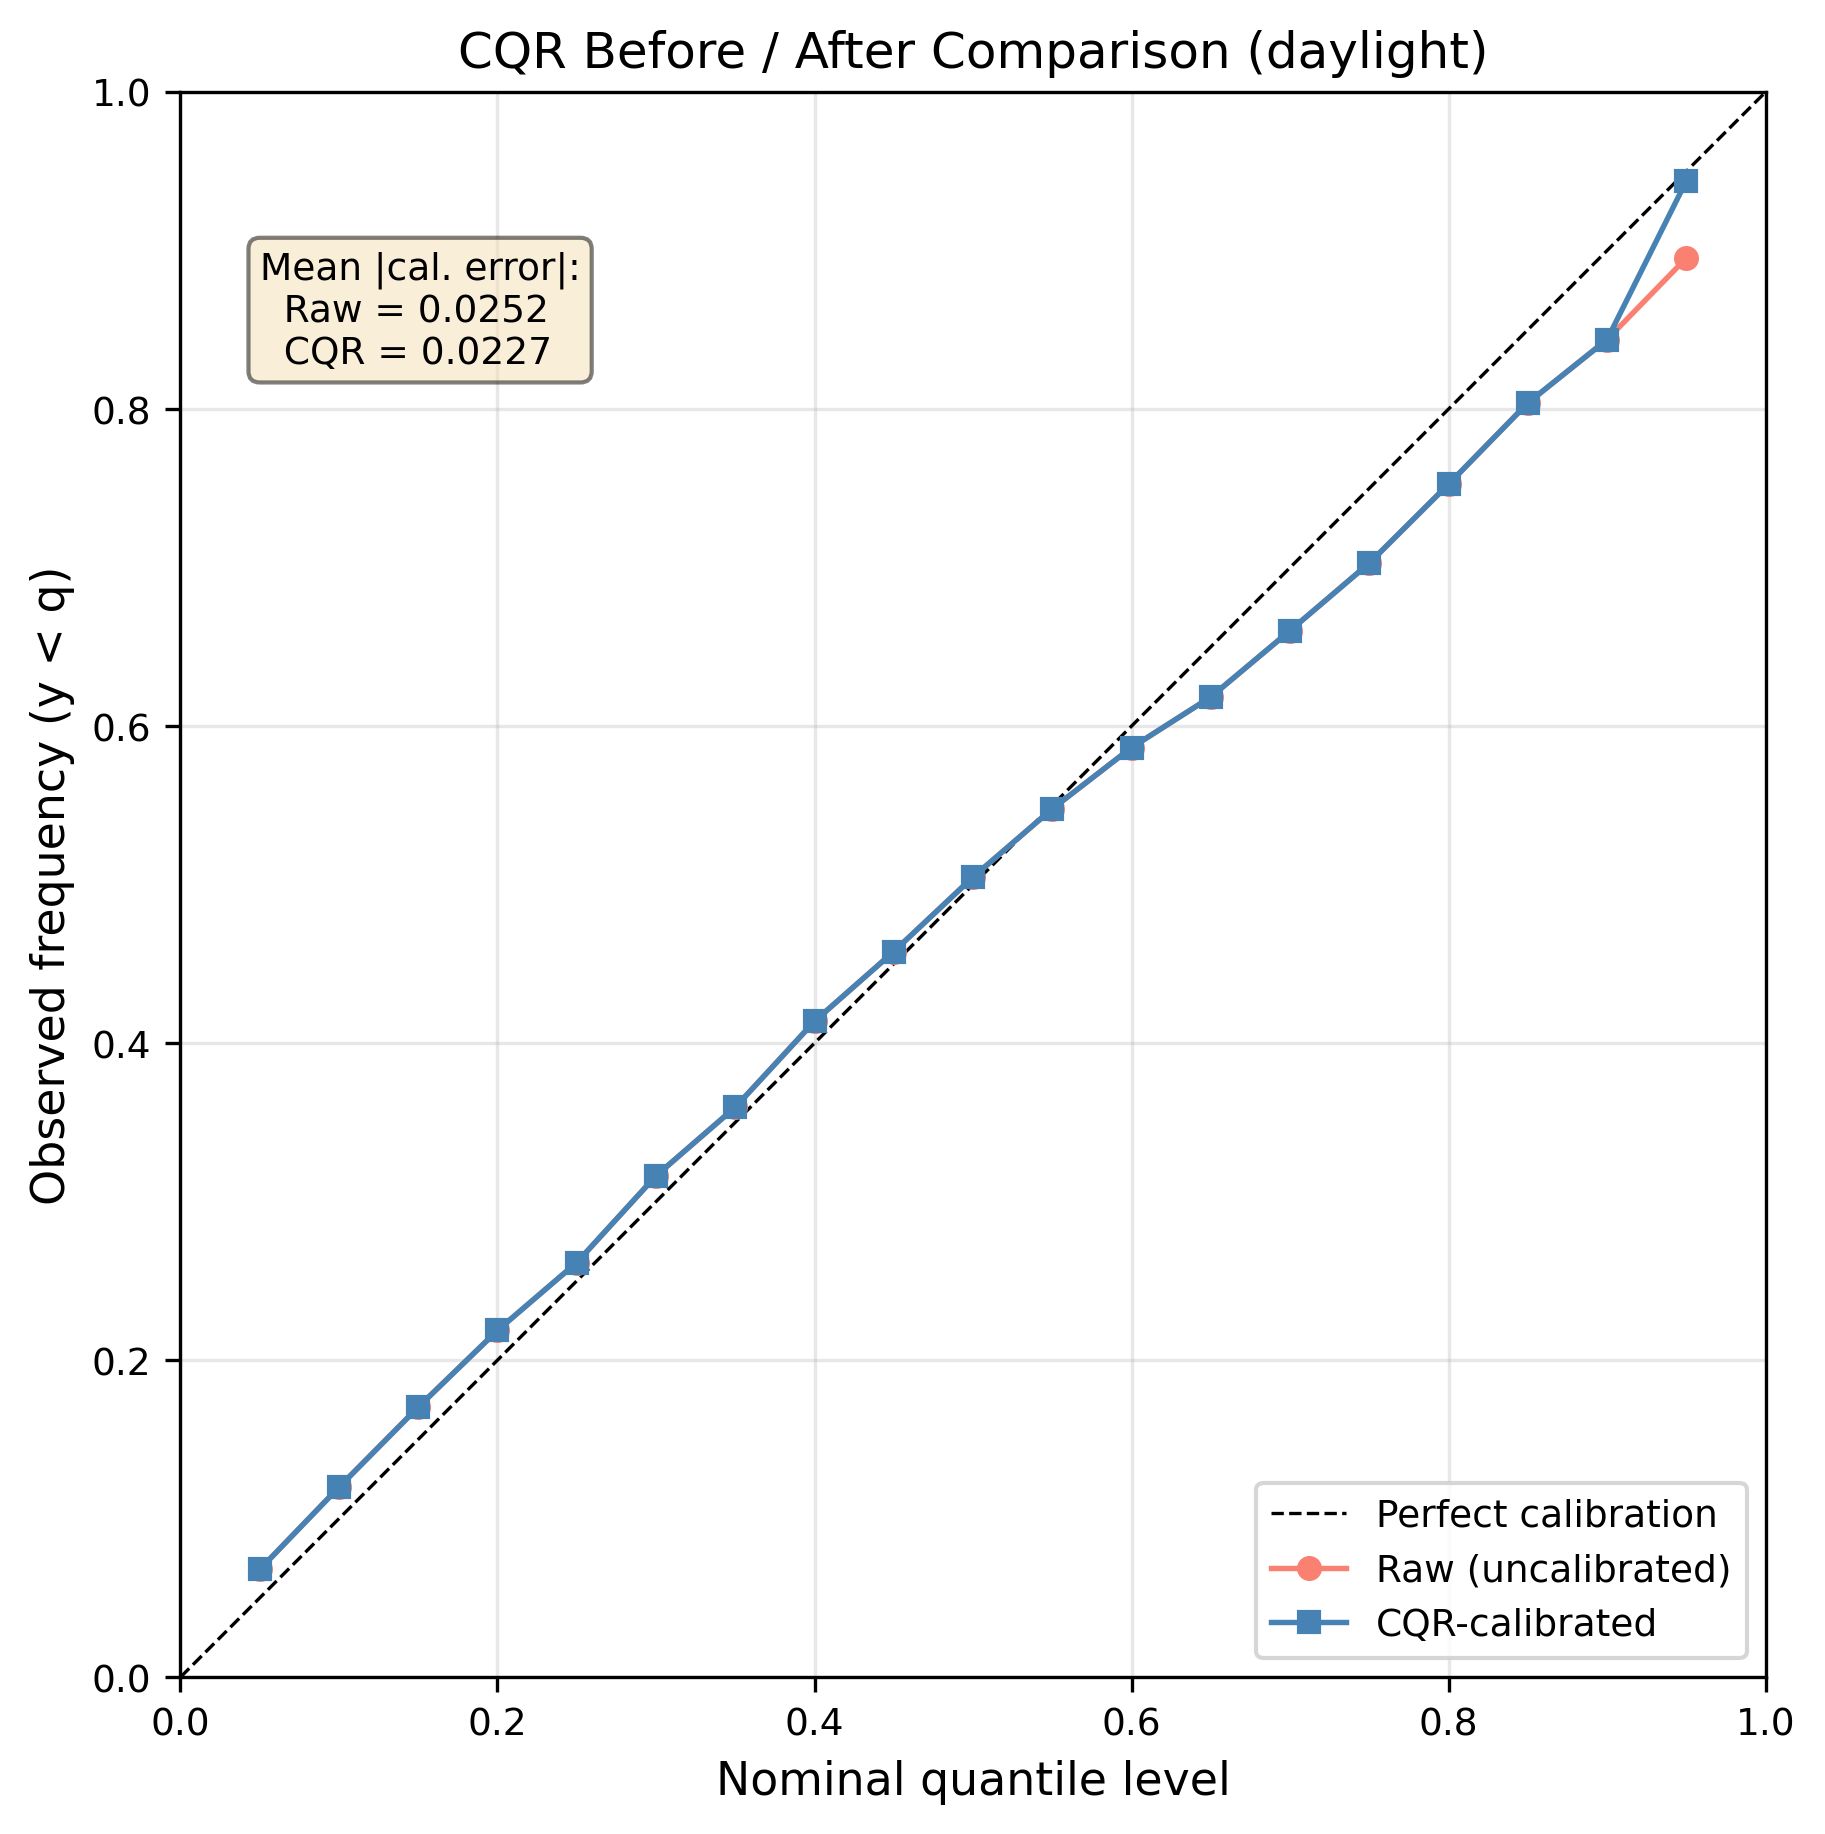
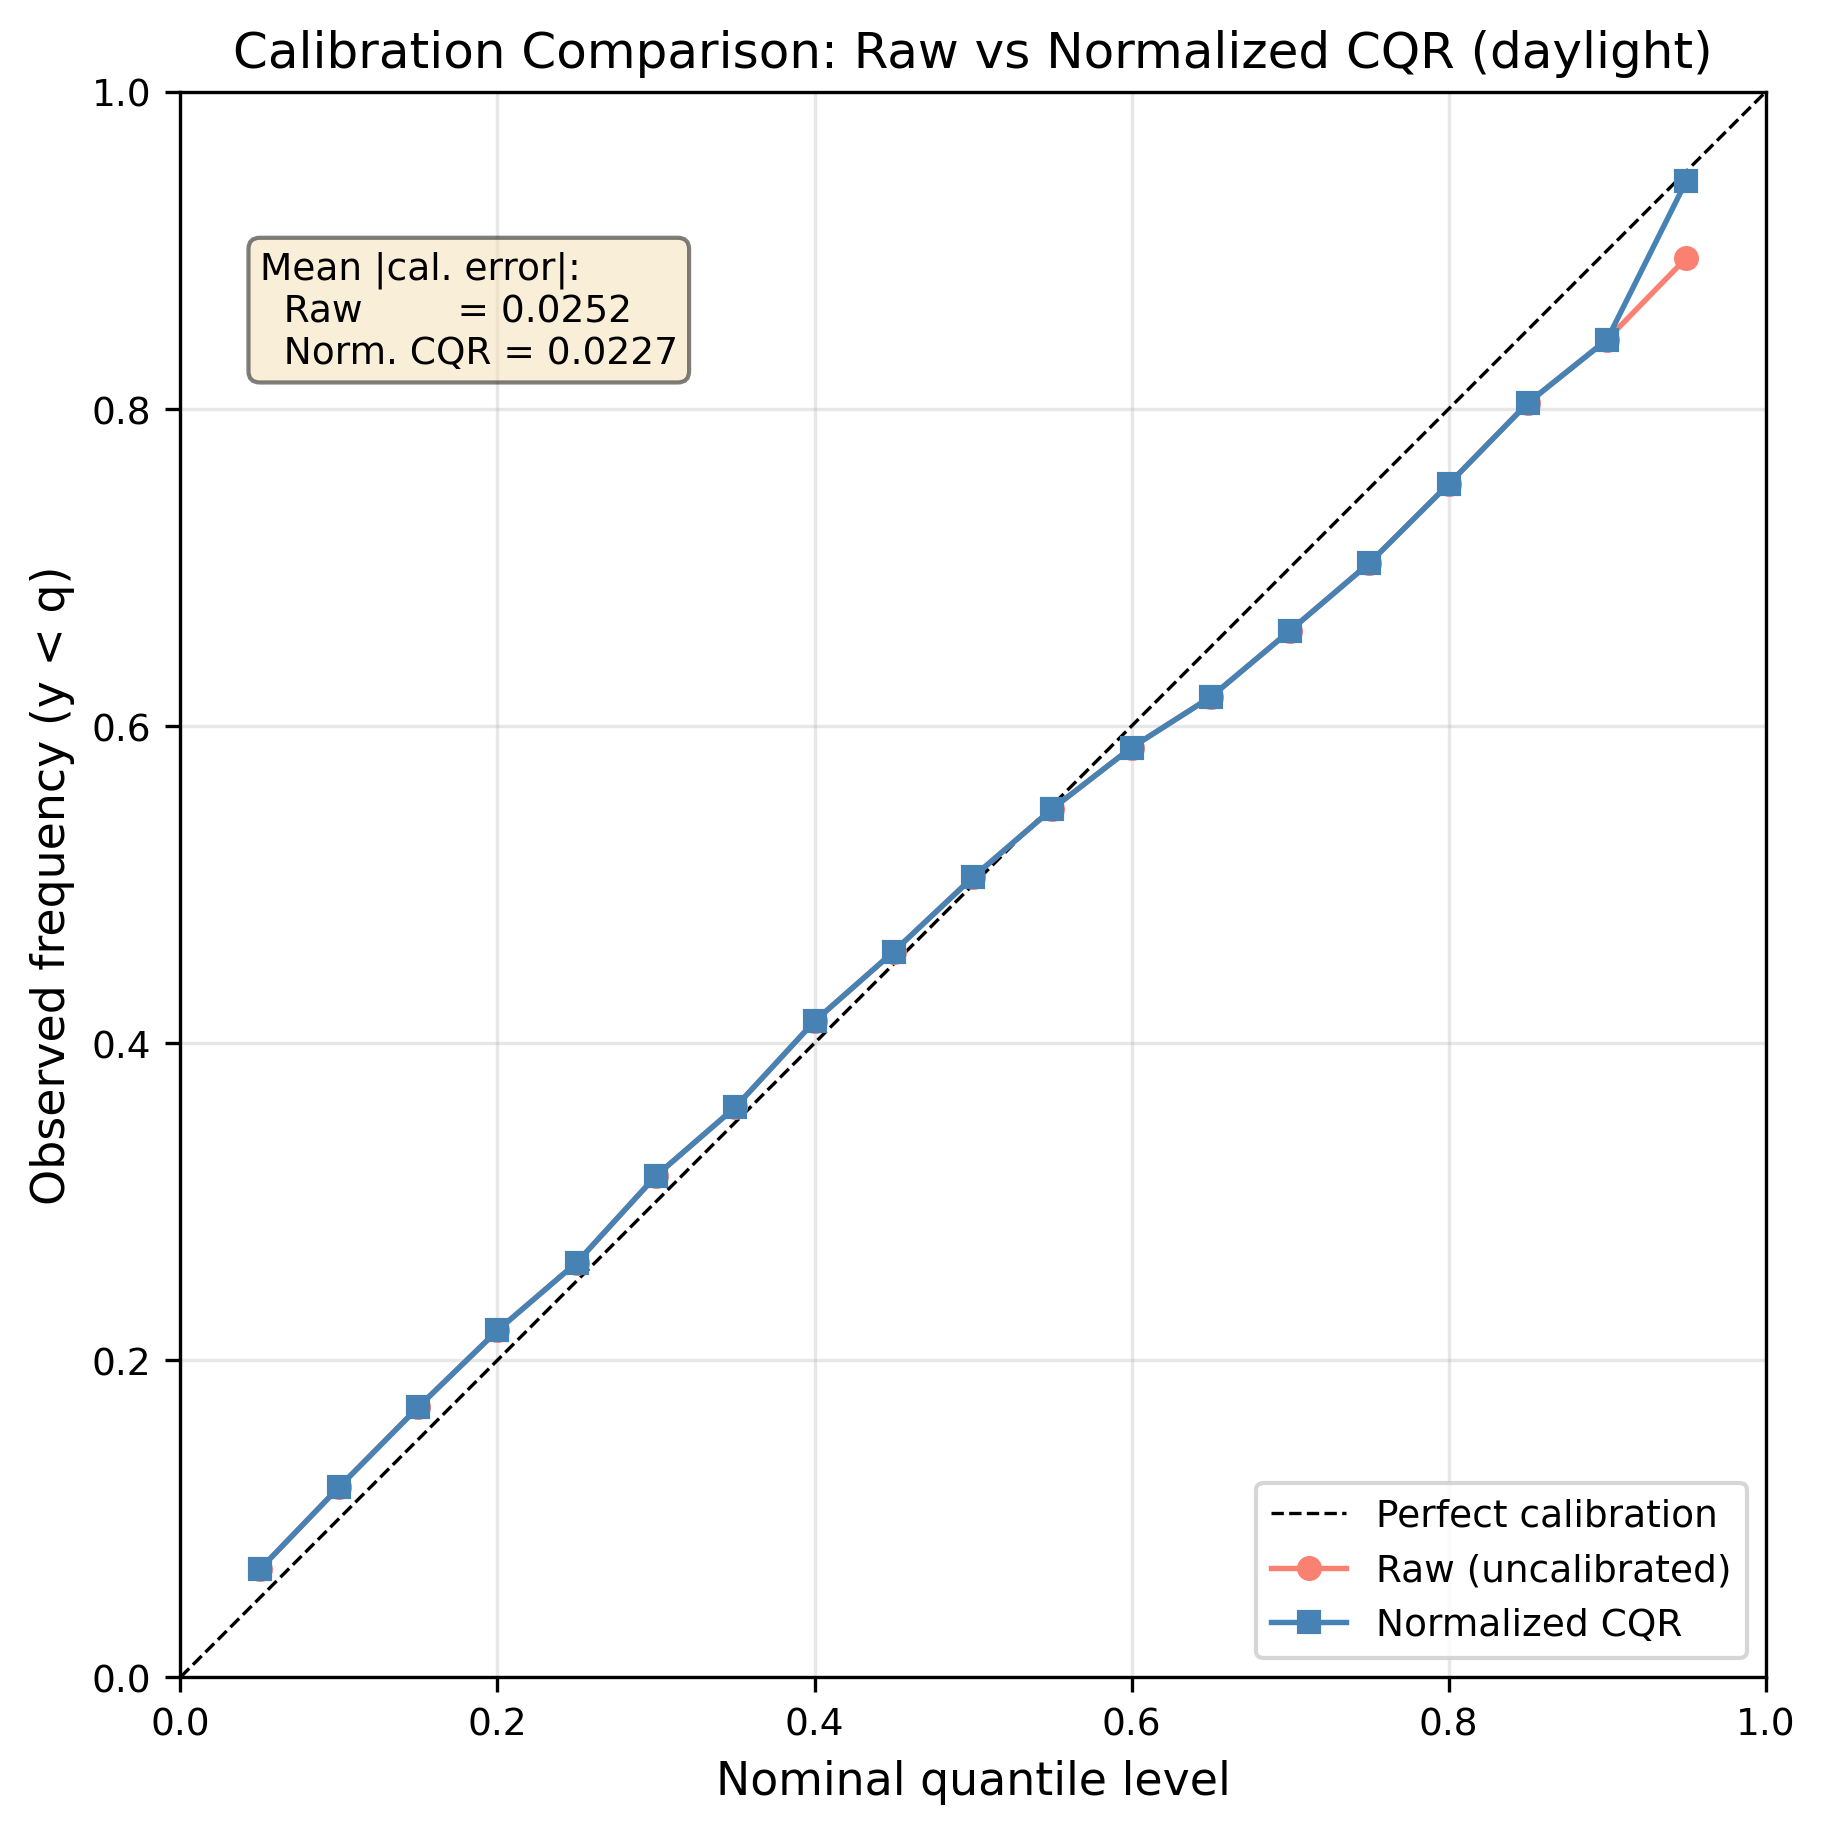
Update labels and README for Normalized CQR calibration comparison

Changed region(s): [[0.1249, 0.0, 0.937, 0.0622], [0.1562, 0.1243, 0.406, 0.2176], [0.7496, 0.8702, 0.9058, 0.9013]]

diff --git a/Project_Archive_Prediction_Final/8_comprehensive_eval.py b/Project_Archive_Prediction_Final/8_comprehensive_eval.py
@@ -280,7 +280,7 @@ def fig_reliability(df_cal: pd.DataFrame, df_raw: pd.DataFrame):
         obs_raw = _observed_freq(raw)
         ax.plot([0, 1], [0, 1], "k--", lw=0.8, label="Perfect")
         ax.plot(TAUS, obs_raw, "o-", ms=4, lw=1.2, label="Raw (uncalibrated)")
-        ax.plot(TAUS, obs_cal, "s-", ms=4, lw=1.2, label="CQR-calibrated")
+        ax.plot(TAUS, obs_cal, "s-", ms=4, lw=1.2, label="Normalized CQR")
         ax.set_xlabel("Nominal quantile level")
         ax.set_ylabel("Observed frequency (y < q)")
         ax.set_title(title)
@@ -451,20 +451,20 @@ def fig_cqr_comparison(df_cal: pd.DataFrame, df_raw: pd.DataFrame):
     fig, ax = plt.subplots(figsize=(6, 6))
     ax.plot([0, 1], [0, 1], "k--", lw=0.8, label="Perfect calibration")
     ax.plot(TAUS, obs_raw, "o-", ms=5, lw=1.3, color="salmon", label="Raw (uncalibrated)")
-    ax.plot(TAUS, obs_cal, "s-", ms=5, lw=1.3, color="steelblue", label="CQR-calibrated")
+    ax.plot(TAUS, obs_cal, "s-", ms=5, lw=1.3, color="steelblue", label="Normalized CQR")
 
     # Annotate improvement
     mae_raw = np.mean(np.abs(obs_raw - TAUS))
     mae_cal = np.mean(np.abs(obs_cal - TAUS))
     ax.text(0.05, 0.90,
-            f"Mean |cal. error|:\n  Raw = {mae_raw:.4f}\n  CQR = {mae_cal:.4f}",
+            f"Mean |cal. error|:\n  Raw        = {mae_raw:.4f}\n  Norm. CQR = {mae_cal:.4f}",
             transform=ax.transAxes, fontsize=9,
             verticalalignment="top",
             bbox=dict(boxstyle="round", facecolor="wheat", alpha=0.5))
 
     ax.set_xlabel("Nominal quantile level")
     ax.set_ylabel("Observed frequency (y < q)")
-    ax.set_title("CQR Before / After Comparison (daylight)")
+    ax.set_title("Calibration Comparison: Raw vs Normalized CQR (daylight)")
     ax.legend(loc="lower right")
     ax.set_xlim(0, 1); ax.set_ylim(0, 1)
     ax.set_aspect("equal")

diff --git a/README.md b/README.md
@@ -169,7 +169,7 @@ Full evaluation of the 19-quantile **Normalized CQR**-calibrated forecast (per H
 
 Normalized CQR normalizes calibration residuals by clear-sky GHI before computing the conformal correction, making interval widths proportional to sky brightness. This eliminates the seasonal distribution shift problem (calibration set: Apr–Oct only) that caused standard CQR to overcorrect on cool months.
 
-**Reliability Diagram (Raw vs CQR, 19 Quantiles):**
+**Reliability Diagram (Raw vs Normalized CQR, 19 Quantiles):**
 ![CQR Comparison](Project_Archive_Prediction_Final/reports/comprehensive_eval/cqr_comparison.png)
 
 **PIT Histograms (All Test / Daylight / Critical Hours):**
